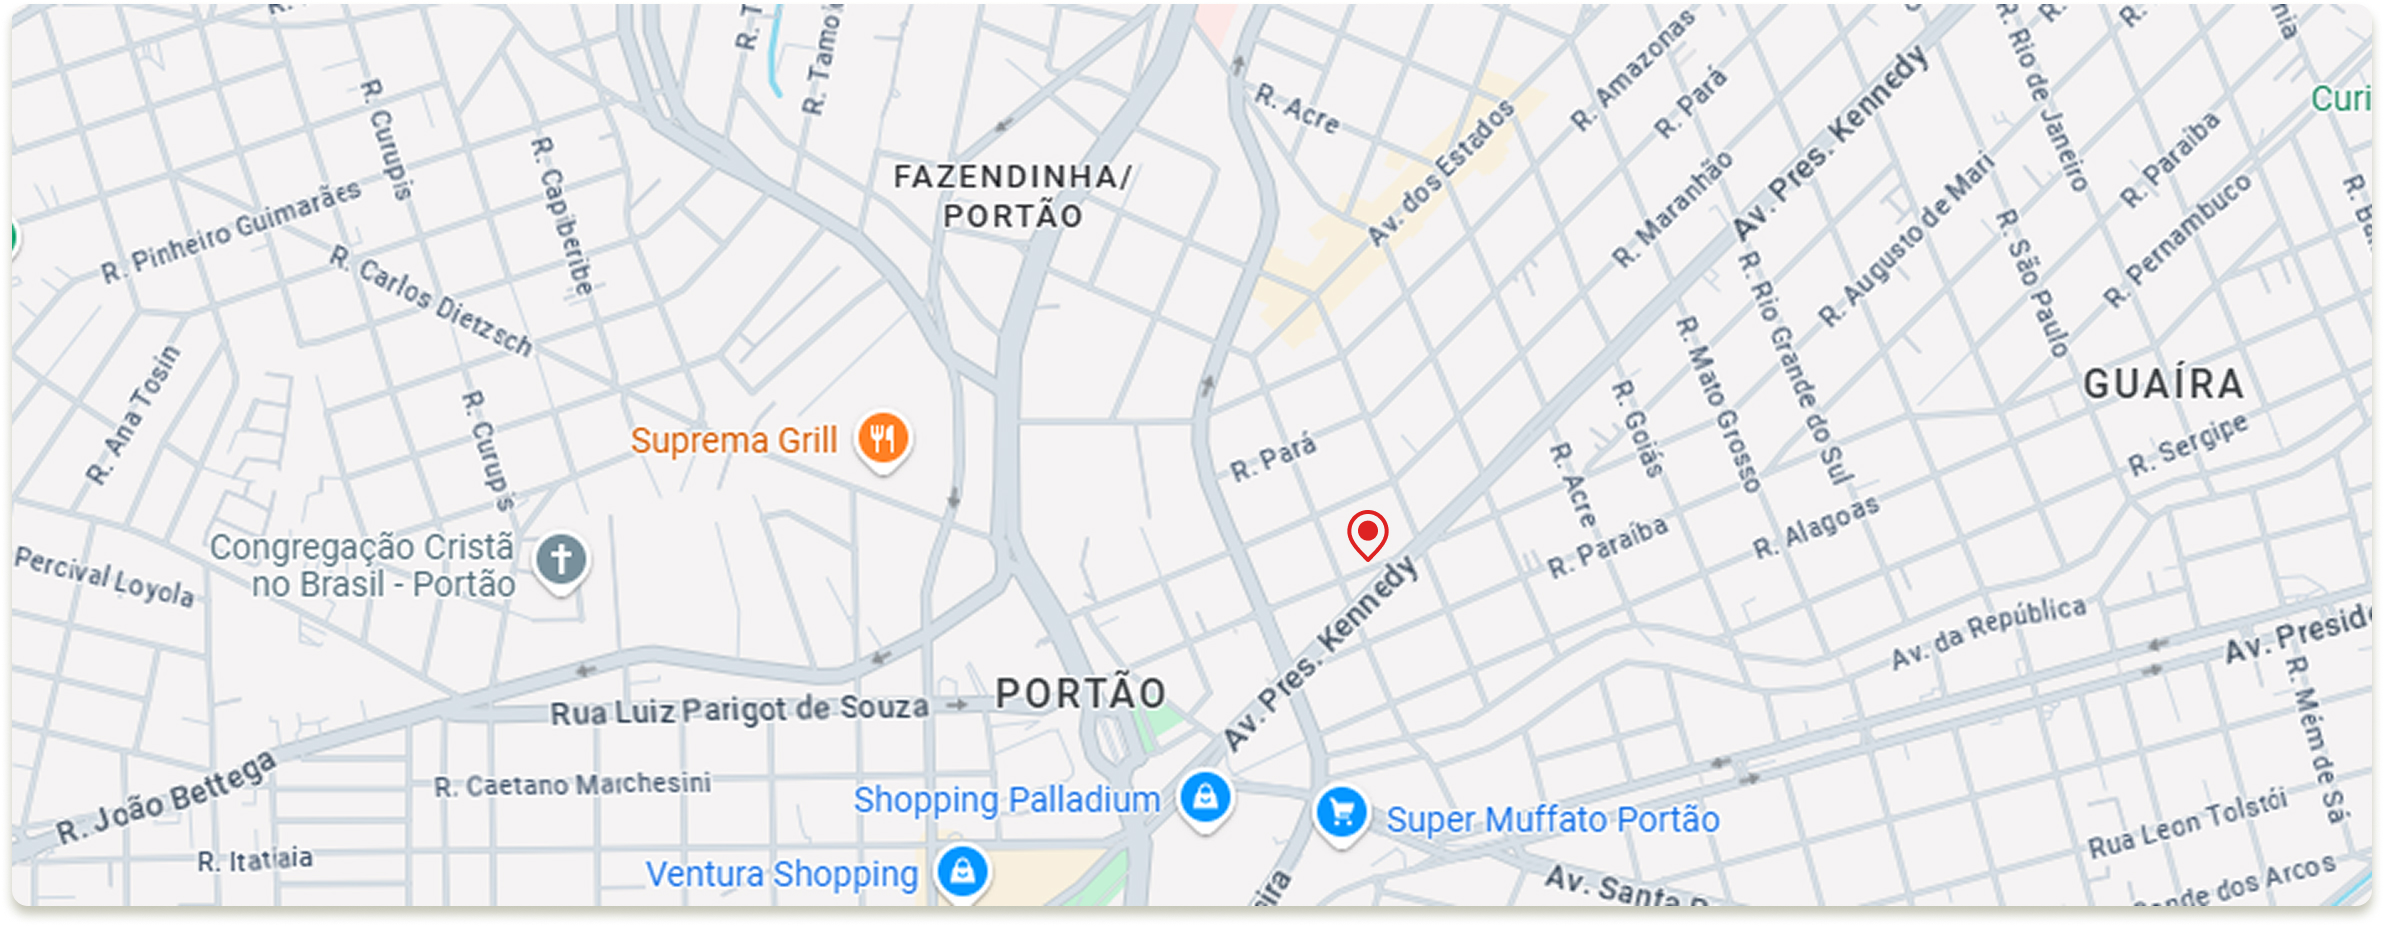
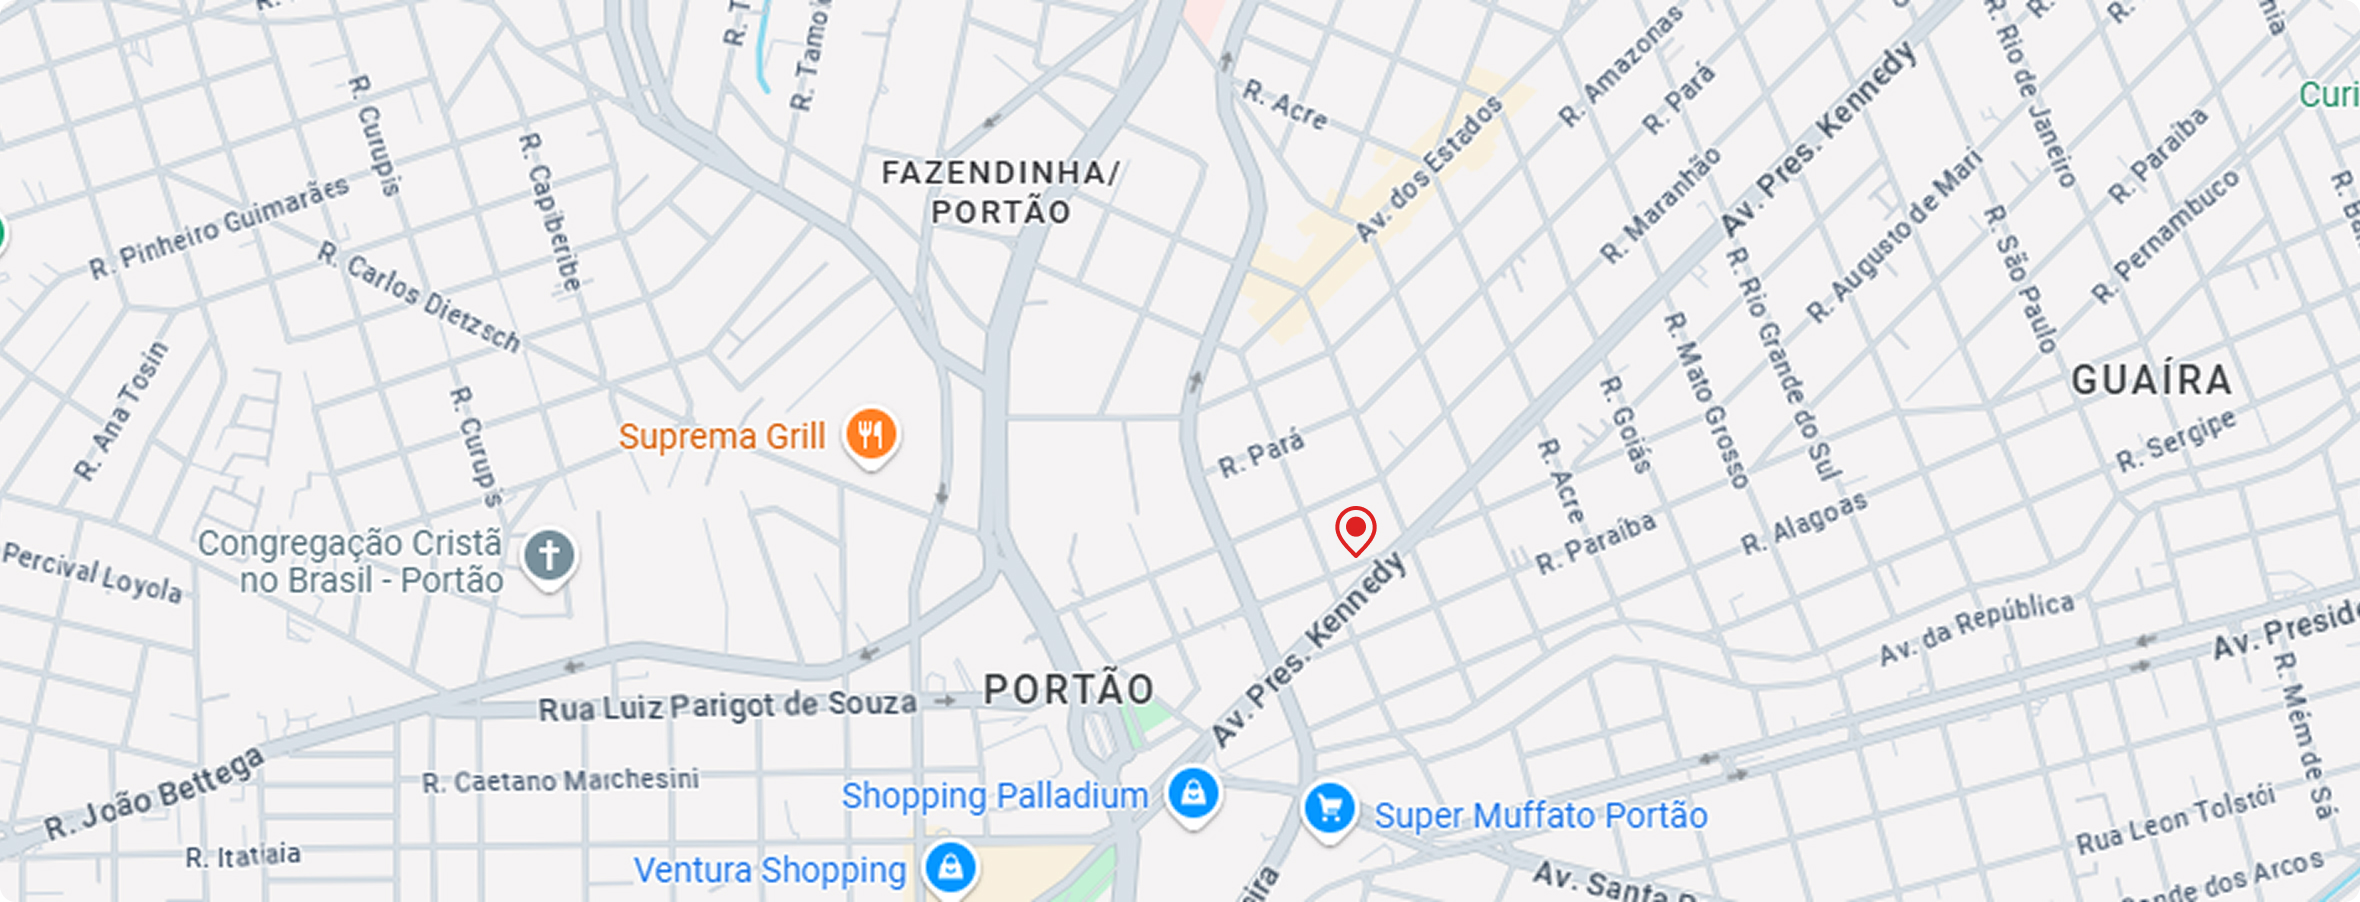
Adicionado CSS home-contato do desktop

diff --git a/static/css/index.css b/static/css/index.css
@@ -386,3 +386,125 @@
     max-width: none;
   }
 }
+
+.form-contato {
+  display: grid;
+  grid-template-columns: 1fr 1fr;
+}
+
+.form-contato-text {
+  background-color: var(--white);
+  border-radius: 8px 0 0 8px;
+  h2 {
+    color: var(--black);
+    margin: 64px 80px;
+    position: relative;
+    display: inline-block;
+  }
+
+  h2::after {
+    content: "";
+    position: absolute;
+    height: 2px;
+    width: 88%;
+    bottom: -2px;
+    left: 0;
+    border-radius: 50px;
+    background-color: var(--black);
+  }
+}
+
+.form-contato-item {
+  position: relative;
+  margin-left: 108px;
+  margin-bottom: 42px;
+  display: grid;
+  gap: 8px;
+  h3 {
+    color: var(--c8);
+  }
+
+  span {
+    color: var(--c7);
+    display: block;
+  }
+}
+
+.form-contato-item::after {
+  content: "";
+  position: absolute;
+  height: 2px;
+  width: 120px;
+  background-color: var(--c2);
+  bottom: -8px;
+}
+
+.form-contato-item:last-child {
+  margin-bottom: 102px;
+}
+
+.form-contato-form {
+  background-color: var(--c8);
+  border-radius: 0 8px 8px 0;
+  padding: 80px 0;
+  display: grid;
+
+  label {
+    color: var(--white);
+    display: block;
+    margin: 40px 64px 16px 64px;
+  }
+
+  input,
+  textarea {
+    border: none;
+    padding: 16px;
+    margin: 0 64px;
+    border-radius: 8px;
+    color: var(--black);
+    resize: none;
+  }
+
+  input::placeholder,
+  textarea::placeholder {
+    color: var(--c3);
+  }
+
+  button {
+    text-align: center;
+    margin-top: 40px;
+    padding: 15px 30px;
+    justify-self: center;
+    background: var(--grad2);
+    border: none;
+    border-radius: 8px;
+    color: var(--c1);
+    transition: all 0.4s;
+  }
+
+  button:hover {
+    transition: all 0.4s;
+    background: var(--grad3);
+    color: var(--c8);
+  }
+}
+
+.home-contato > h2 {
+  color: var(--s3);
+  text-align: center;
+  margin-top: 60px;
+}
+
+.home-contato > img {
+  margin-top: 40px;
+  box-shadow: 0 4px 6px var(--c3);
+  border-radius: 8px;
+  max-width: 100%;
+}
+
+.home-contato > span {
+  display: block;
+  text-align: center;
+  margin-top: 40px;
+  margin-bottom: 80px;
+}

diff --git a/index.html b/index.html
@@ -237,7 +237,7 @@
       </form>
     </div>
     <h2 class="font-XL">Venha fazer uma avaliação hoje mesmo</h2>
-    <img src="" alt="Mapa indicando o endereço">
+    <img src="./static/img/contato-mapa.jpg" alt="Mapa indicando o endereço">
     <span class="font-L">Rua Augusto de Mari, 3558 - Portão </span>
   </section>
 
